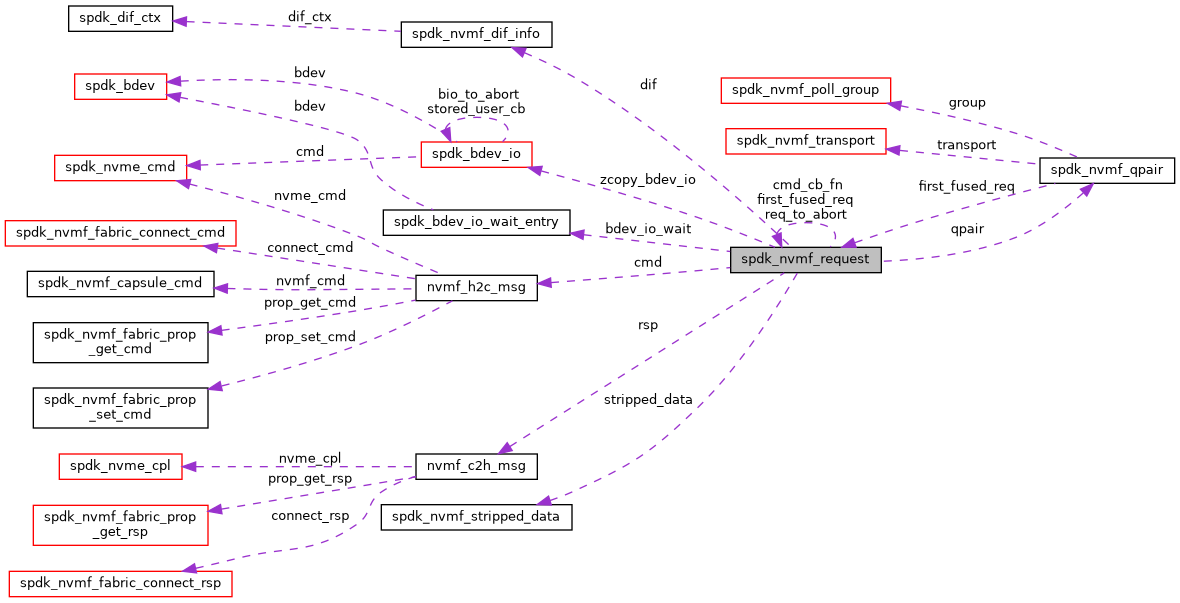
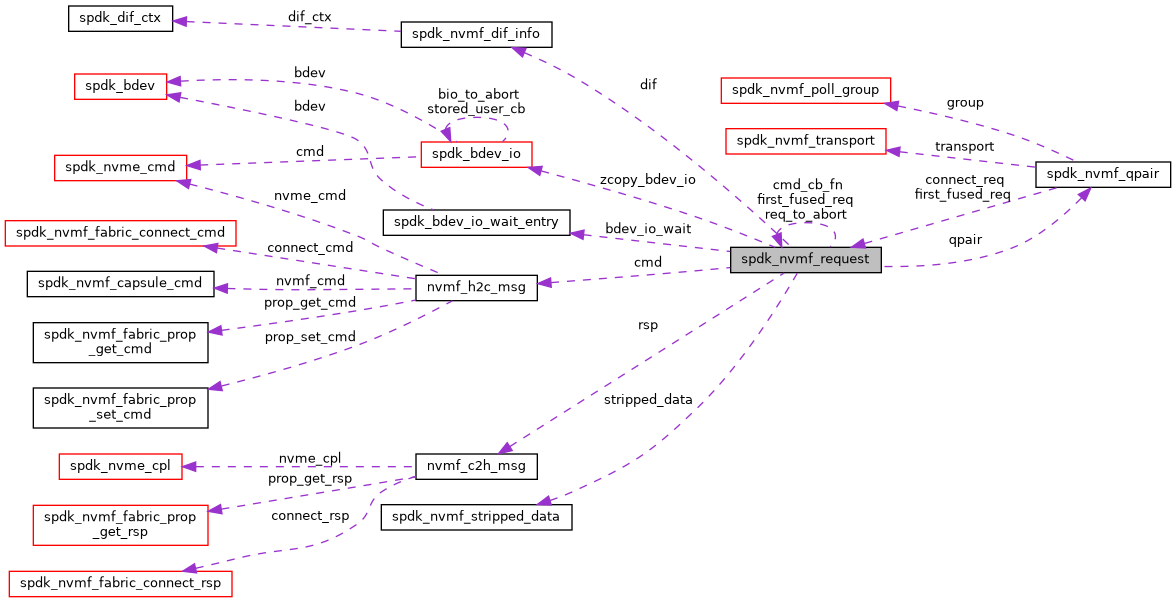
doc: update to b1a2319686137c6836ee1c46fd04e1e3f8d1206f

diff --git a/doc/structspdk__vfu__pci__device.html b/doc/structspdk__vfu__pci__device.html
@@ -107,35 +107,35 @@ Collaboration diagram for spdk_vfu_pci_device:</div>
 <table class="memberdecls">
 <tr class="heading"><td colspan="2"><h2 class="groupheader"><a name="pub-attribs"></a>
 Data Fields</h2></td></tr>
-<tr class="memitem:ab7ec4219ba5a864f58cfbbe0a1616713"><td class="memItemLeft" ><a id="ab7ec4219ba5a864f58cfbbe0a1616713"></a>
+<tr class="memitem:aec8547128d15d1e96dbed6ba46d443b8"><td class="memItemLeft" ><a id="aec8547128d15d1e96dbed6ba46d443b8"></a>
 struct {</td></tr>
-<tr class="memitem:a42dac528b0564b9d6f8dd3fc13e190f2"><td class="memItemLeft" >
+<tr class="memitem:ac424d0402952b18133fd5152e86f5659"><td class="memItemLeft" >
 &#160;&#160;&#160;uint16_t&#160;&#160;&#160;<b>vid</b></td></tr>
-<tr class="separator:a42dac528b0564b9d6f8dd3fc13e190f2"><td class="memSeparator" colspan="2">&#160;</td></tr>
-<tr class="memitem:ab3fc5f6b4b0e08ddb98513cd11486696"><td class="memItemLeft" >
+<tr class="separator:ac424d0402952b18133fd5152e86f5659"><td class="memSeparator" colspan="2">&#160;</td></tr>
+<tr class="memitem:ace23d753eac2bcdbda102b28789a4c9c"><td class="memItemLeft" >
 &#160;&#160;&#160;uint16_t&#160;&#160;&#160;<b>did</b></td></tr>
-<tr class="separator:ab3fc5f6b4b0e08ddb98513cd11486696"><td class="memSeparator" colspan="2">&#160;</td></tr>
-<tr class="memitem:a8f2aca905195ea39576bc12e7e367b1f"><td class="memItemLeft" >
+<tr class="separator:ace23d753eac2bcdbda102b28789a4c9c"><td class="memSeparator" colspan="2">&#160;</td></tr>
+<tr class="memitem:a9b32e27ffa06c5f7fdf810636ad7898f"><td class="memItemLeft" >
 &#160;&#160;&#160;uint16_t&#160;&#160;&#160;<b>ssvid</b></td></tr>
-<tr class="separator:a8f2aca905195ea39576bc12e7e367b1f"><td class="memSeparator" colspan="2">&#160;</td></tr>
-<tr class="memitem:a3faf4ec5fcf5b54010bcfdba1f681707"><td class="memItemLeft" >
+<tr class="separator:a9b32e27ffa06c5f7fdf810636ad7898f"><td class="memSeparator" colspan="2">&#160;</td></tr>
+<tr class="memitem:a1217dae03f0183760903008112461d3f"><td class="memItemLeft" >
 &#160;&#160;&#160;uint16_t&#160;&#160;&#160;<b>ssid</b></td></tr>
-<tr class="separator:a3faf4ec5fcf5b54010bcfdba1f681707"><td class="memSeparator" colspan="2">&#160;</td></tr>
-<tr class="memitem:ab7ec4219ba5a864f58cfbbe0a1616713"><td class="memItemLeft" valign="top">}&#160;</td><td class="memItemRight" valign="bottom"><b>id</b></td></tr>
-<tr class="separator:ab7ec4219ba5a864f58cfbbe0a1616713"><td class="memSeparator" colspan="2">&#160;</td></tr>
-<tr class="memitem:abe4cc3dd1f9836181fbb91e82e3c2cae"><td class="memItemLeft" ><a id="abe4cc3dd1f9836181fbb91e82e3c2cae"></a>
+<tr class="separator:a1217dae03f0183760903008112461d3f"><td class="memSeparator" colspan="2">&#160;</td></tr>
+<tr class="memitem:aec8547128d15d1e96dbed6ba46d443b8"><td class="memItemLeft" valign="top">}&#160;</td><td class="memItemRight" valign="bottom"><b>id</b></td></tr>
+<tr class="separator:aec8547128d15d1e96dbed6ba46d443b8"><td class="memSeparator" colspan="2">&#160;</td></tr>
+<tr class="memitem:a7dc90a89607dfda94163f45481f6d22d"><td class="memItemLeft" ><a id="a7dc90a89607dfda94163f45481f6d22d"></a>
 struct {</td></tr>
-<tr class="memitem:a31e3dce0cd1072f03c8577d834eeb45d"><td class="memItemLeft" >
+<tr class="memitem:ac0e6708304b7d061b03f9f01a05214cf"><td class="memItemLeft" >
 &#160;&#160;&#160;uint8_t&#160;&#160;&#160;<b>bcc</b></td></tr>
-<tr class="separator:a31e3dce0cd1072f03c8577d834eeb45d"><td class="memSeparator" colspan="2">&#160;</td></tr>
-<tr class="memitem:a8d27890f5a629d4a9ff91f38a79716f8"><td class="memItemLeft" >
+<tr class="separator:ac0e6708304b7d061b03f9f01a05214cf"><td class="memSeparator" colspan="2">&#160;</td></tr>
+<tr class="memitem:afa08c7b755d7feaa5e459a69644dbb33"><td class="memItemLeft" >
 &#160;&#160;&#160;uint8_t&#160;&#160;&#160;<b>scc</b></td></tr>
-<tr class="separator:a8d27890f5a629d4a9ff91f38a79716f8"><td class="memSeparator" colspan="2">&#160;</td></tr>
-<tr class="memitem:ad0571f75a51b63823bce4fc380849dff"><td class="memItemLeft" >
+<tr class="separator:afa08c7b755d7feaa5e459a69644dbb33"><td class="memSeparator" colspan="2">&#160;</td></tr>
+<tr class="memitem:add19b32bf22e71bab54d1b7ac85a3ded"><td class="memItemLeft" >
 &#160;&#160;&#160;uint8_t&#160;&#160;&#160;<b>pi</b></td></tr>
-<tr class="separator:ad0571f75a51b63823bce4fc380849dff"><td class="memSeparator" colspan="2">&#160;</td></tr>
-<tr class="memitem:abe4cc3dd1f9836181fbb91e82e3c2cae"><td class="memItemLeft" valign="top">}&#160;</td><td class="memItemRight" valign="bottom"><b>class</b></td></tr>
-<tr class="separator:abe4cc3dd1f9836181fbb91e82e3c2cae"><td class="memSeparator" colspan="2">&#160;</td></tr>
+<tr class="separator:add19b32bf22e71bab54d1b7ac85a3ded"><td class="memSeparator" colspan="2">&#160;</td></tr>
+<tr class="memitem:a7dc90a89607dfda94163f45481f6d22d"><td class="memItemLeft" valign="top">}&#160;</td><td class="memItemRight" valign="bottom"><b>class</b></td></tr>
+<tr class="separator:a7dc90a89607dfda94163f45481f6d22d"><td class="memSeparator" colspan="2">&#160;</td></tr>
 <tr class="memitem:a18b1ef2cc6cc91ef46e4671a01be8418"><td class="memItemLeft" align="right" valign="top"><a id="a18b1ef2cc6cc91ef46e4671a01be8418"></a>
 struct pmcap&#160;</td><td class="memItemRight" valign="bottom"><b>pmcap</b></td></tr>
 <tr class="separator:a18b1ef2cc6cc91ef46e4671a01be8418"><td class="memSeparator" colspan="2">&#160;</td></tr>

diff --git a/doc/navtreeindex29.js b/doc/navtreeindex29.js
@@ -1,5 +1,6 @@
 var NAVTREEINDEX29 =
 {
+"structspdk__scsi__pr__in__full__status__desc.html#a82e21e2823a46e5d72956d6ddce836ac":[14,0,364,0],
 "structspdk__scsi__pr__in__full__status__desc.html#a8b36db3a8ffa27c906f55e064961a6a6":[14,0,364,5],
 "structspdk__scsi__pr__in__full__status__desc.html#a8ce62fdeeb9492c9ef653c181ef7b59b":[14,0,364,6],
 "structspdk__scsi__pr__in__full__status__desc.html#ad7215f35a82a0b99769deed4193c7ff3":[14,0,364,2],
@@ -196,7 +197,7 @@ var NAVTREEINDEX29 =
 "structspdk__trace__parser__entry.html#a53973ef677f05f6d067c046dc790da78":[14,0,389,1],
 "structspdk__trace__parser__entry.html#a55b2e0aea7cca402a502ad4d043e7293":[14,0,389,7],
 "structspdk__trace__parser__entry.html#a7e7ee46ec4c44c52caebb5ede88395c8":[14,0,389,8],
-"structspdk__trace__parser__entry.html#a979ee7fb6da144ca3b9d2b52af894da4":[14,0,389,0],
+"structspdk__trace__parser__entry.html#a8edbac7d17ff4f1f3be02a7441019b76":[14,0,389,0],
 "structspdk__trace__parser__entry.html#abb11f8535fab9ee4f9fc4c2adcee5145":[14,0,389,3],
 "structspdk__trace__parser__entry.html#aebdc6a2a084c4771e6fb246c2d729c1f":[14,0,389,4],
 "structspdk__trace__parser__entry.html#aec660173b8f4a348dce6cbca336a7dfc":[14,0,389,2],
@@ -213,25 +214,25 @@ var NAVTREEINDEX29 =
 "structspdk__trace__tpoint.html":[14,0,392],
 "structspdk__trace__tpoint.html#a0f01e931e5212379d1720697cea4525f":[14,0,392,6],
 "structspdk__trace__tpoint.html#a317eccf6a1a97bcaa0fb21002fe174ce":[14,0,392,8],
+"structspdk__trace__tpoint.html#a57929a428b979dadf45883c35b436c4a":[14,0,392,7],
 "structspdk__trace__tpoint.html#a77fa5c1c40c5a3ff6bef9f7fee8b110c":[14,0,392,4],
-"structspdk__trace__tpoint.html#a900c849eb95c397443821f0b828b9343":[14,0,392,7],
 "structspdk__trace__tpoint.html#aaafcedaba03f4cbb2a5094d1349d6094":[14,0,392,0],
 "structspdk__trace__tpoint.html#ab076ca5845f90898c78f9a64adac7237":[14,0,392,5],
 "structspdk__trace__tpoint.html#ab0e8c489bff5101d247fbaa629a0aac1":[14,0,392,2],
 "structspdk__trace__tpoint.html#ab3b03bf8c8066211ba6c61e6d025974e":[14,0,392,1],
 "structspdk__trace__tpoint.html#ab7fc63503e3111eaa02cec6270279903":[14,0,392,3],
 "structspdk__trace__tpoint__opts.html":[14,0,393],
-"structspdk__trace__tpoint__opts.html#a01be575fe5656df650cf72c652043f98":[14,0,393,0],
 "structspdk__trace__tpoint__opts.html#a1f2120b3e8e9826df77215b818e1921c":[14,0,393,6],
 "structspdk__trace__tpoint__opts.html#a4d1141cb975c7db2462eb8da533715fd":[14,0,393,7],
 "structspdk__trace__tpoint__opts.html#a6cc2107ff77d8653071313fca0fed98c":[14,0,393,4],
 "structspdk__trace__tpoint__opts.html#a79d8cea7d4c0944b42491deb9b996d67":[14,0,393,1],
 "structspdk__trace__tpoint__opts.html#a8dfb550659aea1d6673a21982a612788":[14,0,393,5],
 "structspdk__trace__tpoint__opts.html#aa19ee81f6fb6435306408382a038dc37":[14,0,393,2],
+"structspdk__trace__tpoint__opts.html#abfbbdc0f69bbfe6f28738ee2a69732df":[14,0,393,0],
 "structspdk__trace__tpoint__opts.html#ac55948fa9da93d5edac6bc965205572d":[14,0,393,3],
 "structspdk__uuid.html":[14,0,394],
 "structspdk__uuid.html#a8a218370dc61ebfb25175b124febe10d":[14,0,394,0],
-"structspdk__uuid.html#afccadd3b8eb3a1d2577ccb8e50a8f36c":[14,0,394,1],
+"structspdk__uuid.html#ac1d5efb44e91c711765c6960fa44df48":[14,0,394,1],
 "structspdk__vfu__endpoint__ops.html":[14,0,395],
 "structspdk__vfu__endpoint__ops.html#a00f7d1fb286931725b14f5f410bbcd33":[14,0,395,8],
 "structspdk__vfu__endpoint__ops.html#a3d0a126f68ccaaaff332d355013450f7":[14,0,395,3],
@@ -248,6 +249,5 @@ var NAVTREEINDEX29 =
 "structspdk__vfu__pci__device.html#a17a27b028191166a11827c680e760ec3":[14,0,396,7],
 "structspdk__vfu__pci__device.html#a18b1ef2cc6cc91ef46e4671a01be8418":[14,0,396,10],
 "structspdk__vfu__pci__device.html#a1f0a54eba7648d8c6145c45689430f5c":[14,0,396,9],
-"structspdk__vfu__pci__device.html#a20ebb56d42efba8f13739ff8976aa8a3":[14,0,396,15],
-"structspdk__vfu__pci__device.html#a29b0a87d2156236093e1315b062f4806":[14,0,396,8]
+"structspdk__vfu__pci__device.html#a20ebb56d42efba8f13739ff8976aa8a3":[14,0,396,15]
 };

diff --git a/doc/structvfio__user__header.html b/doc/structvfio__user__header.html
@@ -103,22 +103,22 @@ uint16_t&#160;</td><td class="memItemRight" valign="bottom"><b>cmd</b></td></tr>
 <tr class="memitem:a4069787d02f5851e7c7652198505a102"><td class="memItemLeft" align="right" valign="top"><a id="a4069787d02f5851e7c7652198505a102"></a>
 uint32_t&#160;</td><td class="memItemRight" valign="bottom"><b>msg_size</b></td></tr>
 <tr class="separator:a4069787d02f5851e7c7652198505a102"><td class="memSeparator" colspan="2">&#160;</td></tr>
-<tr class="memitem:ad21b827dc55ba6ff42ca41b665a0e5bc"><td class="memItemLeft" ><a id="ad21b827dc55ba6ff42ca41b665a0e5bc"></a>
+<tr class="memitem:a9172193571584f47fa6ed9a46b764ce7"><td class="memItemLeft" ><a id="a9172193571584f47fa6ed9a46b764ce7"></a>
 struct {</td></tr>
-<tr class="memitem:ae40f0de108c588dc484d09209332c1e9"><td class="memItemLeft" >
+<tr class="memitem:a8d25a176c95fabbf22178be101c73e52"><td class="memItemLeft" >
 &#160;&#160;&#160;uint32_t&#160;&#160;&#160;<b>type</b>: 4</td></tr>
-<tr class="separator:ae40f0de108c588dc484d09209332c1e9"><td class="memSeparator" colspan="2">&#160;</td></tr>
-<tr class="memitem:a10617e16ea1a71ce6ee3602209d0a06a"><td class="memItemLeft" >
+<tr class="separator:a8d25a176c95fabbf22178be101c73e52"><td class="memSeparator" colspan="2">&#160;</td></tr>
+<tr class="memitem:a7a95964a3716942fa1e75a344496596d"><td class="memItemLeft" >
 &#160;&#160;&#160;uint32_t&#160;&#160;&#160;<b>no_reply</b>: 1</td></tr>
-<tr class="separator:a10617e16ea1a71ce6ee3602209d0a06a"><td class="memSeparator" colspan="2">&#160;</td></tr>
-<tr class="memitem:af6c737035d95d55345dfd516f7b0f0d6"><td class="memItemLeft" >
+<tr class="separator:a7a95964a3716942fa1e75a344496596d"><td class="memSeparator" colspan="2">&#160;</td></tr>
+<tr class="memitem:a6163893e84f7afe9587096aabcda1eaf"><td class="memItemLeft" >
 &#160;&#160;&#160;uint32_t&#160;&#160;&#160;<b>error</b>: 1</td></tr>
-<tr class="separator:af6c737035d95d55345dfd516f7b0f0d6"><td class="memSeparator" colspan="2">&#160;</td></tr>
-<tr class="memitem:a6d255f587ec6f720b31e4fc6aef5205c"><td class="memItemLeft" >
+<tr class="separator:a6163893e84f7afe9587096aabcda1eaf"><td class="memSeparator" colspan="2">&#160;</td></tr>
+<tr class="memitem:ace2c76597d8fd9de5ec8ab51ecdd2419"><td class="memItemLeft" >
 &#160;&#160;&#160;uint32_t&#160;&#160;&#160;<b>resvd</b>: 26</td></tr>
-<tr class="separator:a6d255f587ec6f720b31e4fc6aef5205c"><td class="memSeparator" colspan="2">&#160;</td></tr>
-<tr class="memitem:ad21b827dc55ba6ff42ca41b665a0e5bc"><td class="memItemLeft" valign="top">}&#160;</td><td class="memItemRight" valign="bottom"><b>flags</b></td></tr>
-<tr class="separator:ad21b827dc55ba6ff42ca41b665a0e5bc"><td class="memSeparator" colspan="2">&#160;</td></tr>
+<tr class="separator:ace2c76597d8fd9de5ec8ab51ecdd2419"><td class="memSeparator" colspan="2">&#160;</td></tr>
+<tr class="memitem:a9172193571584f47fa6ed9a46b764ce7"><td class="memItemLeft" valign="top">}&#160;</td><td class="memItemRight" valign="bottom"><b>flags</b></td></tr>
+<tr class="separator:a9172193571584f47fa6ed9a46b764ce7"><td class="memSeparator" colspan="2">&#160;</td></tr>
 <tr class="memitem:ac26f57c2a4710128eb10398b4ab71405"><td class="memItemLeft" align="right" valign="top"><a id="ac26f57c2a4710128eb10398b4ab71405"></a>
 uint32_t&#160;</td><td class="memItemRight" valign="bottom"><b>error_no</b></td></tr>
 <tr class="separator:ac26f57c2a4710128eb10398b4ab71405"><td class="memSeparator" colspan="2">&#160;</td></tr>

diff --git a/doc/structspdk__trace__parser__entry.html b/doc/structspdk__trace__parser__entry.html
@@ -129,20 +129,20 @@ uint64_t&#160;</td><td class="memItemRight" valign="bottom"><a class="el" href="
 uint8_t&#160;</td><td class="memItemRight" valign="bottom"><a class="el" href="structspdk__trace__parser__entry.html#a7e7ee46ec4c44c52caebb5ede88395c8">related_type</a></td></tr>
 <tr class="memdesc:a7e7ee46ec4c44c52caebb5ede88395c8"><td class="mdescLeft">&#160;</td><td class="mdescRight">Related object type. <br /></td></tr>
 <tr class="separator:a7e7ee46ec4c44c52caebb5ede88395c8"><td class="memSeparator" colspan="2">&#160;</td></tr>
-<tr class="memitem:a979ee7fb6da144ca3b9d2b52af894da4"><td class="memItemLeft" ><a id="a979ee7fb6da144ca3b9d2b52af894da4"></a>
+<tr class="memitem:a8edbac7d17ff4f1f3be02a7441019b76"><td class="memItemLeft" ><a id="a8edbac7d17ff4f1f3be02a7441019b76"></a>
 union {</td></tr>
-<tr class="memitem:a558f0cf0531588b9145b181ab7472147"><td class="memItemLeft" >
+<tr class="memitem:aef5e9a3f7e0fe65185a9e218d661bcf3"><td class="memItemLeft" >
 &#160;&#160;&#160;uint64_t&#160;&#160;&#160;<b>integer</b></td></tr>
-<tr class="separator:a558f0cf0531588b9145b181ab7472147"><td class="memSeparator" colspan="2">&#160;</td></tr>
-<tr class="memitem:a5151ecfbb7521e39297c75a3431f1f5b"><td class="memItemLeft" >
+<tr class="separator:aef5e9a3f7e0fe65185a9e218d661bcf3"><td class="memSeparator" colspan="2">&#160;</td></tr>
+<tr class="memitem:acf81a42cd30a75b8b2feabb253e36df4"><td class="memItemLeft" >
 &#160;&#160;&#160;void *&#160;&#160;&#160;<b>pointer</b></td></tr>
-<tr class="separator:a5151ecfbb7521e39297c75a3431f1f5b"><td class="memSeparator" colspan="2">&#160;</td></tr>
-<tr class="memitem:a0bdb976345f9f0d071befaf529c7cd33"><td class="memItemLeft" >
+<tr class="separator:acf81a42cd30a75b8b2feabb253e36df4"><td class="memSeparator" colspan="2">&#160;</td></tr>
+<tr class="memitem:a679642ca4f44d569bcd1dd00f98cc924"><td class="memItemLeft" >
 &#160;&#160;&#160;char&#160;&#160;&#160;<b>string</b> [UINT8_MAX+1]</td></tr>
-<tr class="separator:a0bdb976345f9f0d071befaf529c7cd33"><td class="memSeparator" colspan="2">&#160;</td></tr>
-<tr class="memitem:a979ee7fb6da144ca3b9d2b52af894da4"><td class="memItemLeft" valign="top">}&#160;</td><td class="memItemRight" valign="bottom"><a class="el" href="structspdk__trace__parser__entry.html#a979ee7fb6da144ca3b9d2b52af894da4">args</a> [SPDK_TRACE_MAX_ARGS_COUNT]</td></tr>
-<tr class="memdesc:a979ee7fb6da144ca3b9d2b52af894da4"><td class="mdescLeft">&#160;</td><td class="mdescRight">Tracepoint arguments. <br /></td></tr>
-<tr class="separator:a979ee7fb6da144ca3b9d2b52af894da4"><td class="memSeparator" colspan="2">&#160;</td></tr>
+<tr class="separator:a679642ca4f44d569bcd1dd00f98cc924"><td class="memSeparator" colspan="2">&#160;</td></tr>
+<tr class="memitem:a8edbac7d17ff4f1f3be02a7441019b76"><td class="memItemLeft" valign="top">}&#160;</td><td class="memItemRight" valign="bottom"><a class="el" href="structspdk__trace__parser__entry.html#a8edbac7d17ff4f1f3be02a7441019b76">args</a> [SPDK_TRACE_MAX_ARGS_COUNT]</td></tr>
+<tr class="memdesc:a8edbac7d17ff4f1f3be02a7441019b76"><td class="mdescLeft">&#160;</td><td class="mdescRight">Tracepoint arguments. <br /></td></tr>
+<tr class="separator:a8edbac7d17ff4f1f3be02a7441019b76"><td class="memSeparator" colspan="2">&#160;</td></tr>
 </table>
 <a name="details" id="details"></a><h2 class="groupheader">Detailed Description</h2>
 <div class="textblock"><p>Describes a parsed trace entry. </p>

diff --git a/doc/navtreeindex27.js b/doc/navtreeindex27.js
@@ -16,19 +16,20 @@ var NAVTREEINDEX27 =
 "structspdk__nvmf__poll__group__stat.html#af35cb7b40dc36493333df1698ca17eda":[14,0,310,4],
 "structspdk__nvmf__qpair.html":[14,0,311],
 "structspdk__nvmf__qpair.html#a088e32a2258aaba2781f42bdb63d74f3":[14,0,311,0],
-"structspdk__nvmf__qpair.html#a0e2e7f8b9bb90bf1d0b0ed9e197cd290":[14,0,311,9],
-"structspdk__nvmf__qpair.html#a2fd38a526e3d5d07cde1b52cf5fda6d8":[14,0,311,5],
+"structspdk__nvmf__qpair.html#a0e2e7f8b9bb90bf1d0b0ed9e197cd290":[14,0,311,10],
+"structspdk__nvmf__qpair.html#a2fd38a526e3d5d07cde1b52cf5fda6d8":[14,0,311,6],
 "structspdk__nvmf__qpair.html#a419c7cb5490055b0eeaca52aeb1baea7":[14,0,311,1],
-"structspdk__nvmf__qpair.html#a44e9be1f9f7b8607613f1caee777d9f9":[14,0,311,10],
-"structspdk__nvmf__qpair.html#a598e955b75f6ca4576fdad98c43e6487":[14,0,311,8],
-"structspdk__nvmf__qpair.html#a68b1d54cc3ea7e337043f4dabfa9b859":[14,0,311,11],
+"structspdk__nvmf__qpair.html#a44e9be1f9f7b8607613f1caee777d9f9":[14,0,311,11],
+"structspdk__nvmf__qpair.html#a4c646146a3b9f0dd882bf8fb933467d3":[14,0,311,3],
+"structspdk__nvmf__qpair.html#a598e955b75f6ca4576fdad98c43e6487":[14,0,311,9],
+"structspdk__nvmf__qpair.html#a68b1d54cc3ea7e337043f4dabfa9b859":[14,0,311,12],
 "structspdk__nvmf__qpair.html#a73fbbe9ed27d142ba43055dc6aa809e0":[14,0,311,2],
-"structspdk__nvmf__qpair.html#a993b86bef0d64d282753f924cdb6de02":[14,0,311,6],
-"structspdk__nvmf__qpair.html#abb43234094d4e8bf33c1868563e710dc":[14,0,311,4],
-"structspdk__nvmf__qpair.html#ad96a9ac0798e15ef97e0890d3aabd591":[14,0,311,12],
-"structspdk__nvmf__qpair.html#add3a2107b9b45be02b7319571960e5d4":[14,0,311,13],
-"structspdk__nvmf__qpair.html#adedc0164fd1e4a9245cc15752da0cfad":[14,0,311,3],
-"structspdk__nvmf__qpair.html#aecc6801664b3940edae8ee58e8438c33":[14,0,311,7],
+"structspdk__nvmf__qpair.html#a993b86bef0d64d282753f924cdb6de02":[14,0,311,7],
+"structspdk__nvmf__qpair.html#abb43234094d4e8bf33c1868563e710dc":[14,0,311,5],
+"structspdk__nvmf__qpair.html#ad96a9ac0798e15ef97e0890d3aabd591":[14,0,311,13],
+"structspdk__nvmf__qpair.html#add3a2107b9b45be02b7319571960e5d4":[14,0,311,14],
+"structspdk__nvmf__qpair.html#adedc0164fd1e4a9245cc15752da0cfad":[14,0,311,4],
+"structspdk__nvmf__qpair.html#aecc6801664b3940edae8ee58e8438c33":[14,0,311,8],
 "structspdk__nvmf__rdma__accept__private__data.html":[14,0,312],
 "structspdk__nvmf__rdma__accept__private__data.html#a04fc397faefc26fa6b0db3527416d7a1":[14,0,312,1],
 "structspdk__nvmf__rdma__accept__private__data.html#a08caf73e58a58daa28d5bc3597b448ca":[14,0,312,2],
@@ -248,6 +249,5 @@ var NAVTREEINDEX27 =
 "structspdk__opal__d0__datastore__feat.html#a295989789470dddfbc929ac553d6055c":[14,0,333,0],
 "structspdk__opal__d0__datastore__feat.html#ad328de8b9ec25dc195379425e6f3023d":[14,0,333,1],
 "structspdk__opal__d0__datastore__feat.html#ad3f683eddd119478844453f109ed73af":[14,0,333,3],
-"structspdk__opal__d0__datastore__feat.html#afb80efa53c7b4499bfd97ce5caeed9ae":[14,0,333,4],
-"structspdk__opal__d0__feat__hdr.html":[14,0,334]
+"structspdk__opal__d0__datastore__feat.html#afb80efa53c7b4499bfd97ce5caeed9ae":[14,0,333,4]
 };

diff --git a/doc/structspdk__trace__tpoint.html b/doc/structspdk__trace__tpoint.html
@@ -124,17 +124,17 @@ uint8_t&#160;</td><td class="memItemRight" valign="bottom"><b>num_args</b></td><
 <tr class="memitem:ab3b03bf8c8066211ba6c61e6d025974e"><td class="memItemLeft" align="right" valign="top"><a id="ab3b03bf8c8066211ba6c61e6d025974e"></a>
 struct <a class="el" href="structspdk__trace__argument.html">spdk_trace_argument</a>&#160;</td><td class="memItemRight" valign="bottom"><b>args</b> [SPDK_TRACE_MAX_ARGS_COUNT]</td></tr>
 <tr class="separator:ab3b03bf8c8066211ba6c61e6d025974e"><td class="memSeparator" colspan="2">&#160;</td></tr>
-<tr class="memitem:a900c849eb95c397443821f0b828b9343"><td class="memItemLeft" ><a id="a900c849eb95c397443821f0b828b9343"></a>
+<tr class="memitem:a57929a428b979dadf45883c35b436c4a"><td class="memItemLeft" ><a id="a57929a428b979dadf45883c35b436c4a"></a>
 struct {</td></tr>
-<tr class="memitem:aa92a3a423f731730d35c3d5ab9d3d790"><td class="memItemLeft" >
+<tr class="memitem:a735ff35875451b8e55e01919a5482148"><td class="memItemLeft" >
 &#160;&#160;&#160;uint8_t&#160;&#160;&#160;<b>object_type</b></td></tr>
-<tr class="separator:aa92a3a423f731730d35c3d5ab9d3d790"><td class="memSeparator" colspan="2">&#160;</td></tr>
-<tr class="memitem:a14515829e780f1f8d417504423d80fc6"><td class="memItemLeft" >
+<tr class="separator:a735ff35875451b8e55e01919a5482148"><td class="memSeparator" colspan="2">&#160;</td></tr>
+<tr class="memitem:a2e02cc7bb8b3a67cef2a1bbfb886a174"><td class="memItemLeft" >
 &#160;&#160;&#160;uint8_t&#160;&#160;&#160;<b>arg_index</b></td></tr>
-<tr class="separator:a14515829e780f1f8d417504423d80fc6"><td class="memSeparator" colspan="2">&#160;</td></tr>
-<tr class="memitem:a900c849eb95c397443821f0b828b9343"><td class="memItemLeft" valign="top">}&#160;</td><td class="memItemRight" valign="bottom"><a class="el" href="structspdk__trace__tpoint.html#a900c849eb95c397443821f0b828b9343">related_objects</a> [SPDK_TRACE_MAX_RELATIONS]</td></tr>
-<tr class="memdesc:a900c849eb95c397443821f0b828b9343"><td class="mdescLeft">&#160;</td><td class="mdescRight">Relations between tracepoint and trace object. <br /></td></tr>
-<tr class="separator:a900c849eb95c397443821f0b828b9343"><td class="memSeparator" colspan="2">&#160;</td></tr>
+<tr class="separator:a2e02cc7bb8b3a67cef2a1bbfb886a174"><td class="memSeparator" colspan="2">&#160;</td></tr>
+<tr class="memitem:a57929a428b979dadf45883c35b436c4a"><td class="memItemLeft" valign="top">}&#160;</td><td class="memItemRight" valign="bottom"><a class="el" href="structspdk__trace__tpoint.html#a57929a428b979dadf45883c35b436c4a">related_objects</a> [SPDK_TRACE_MAX_RELATIONS]</td></tr>
+<tr class="memdesc:a57929a428b979dadf45883c35b436c4a"><td class="mdescLeft">&#160;</td><td class="mdescRight">Relations between tracepoint and trace object. <br /></td></tr>
+<tr class="separator:a57929a428b979dadf45883c35b436c4a"><td class="memSeparator" colspan="2">&#160;</td></tr>
 </table>
 <hr/>The documentation for this struct was generated from the following file:<ul>
 <li><a class="el" href="trace_8h.html">trace.h</a></li>

diff --git a/doc/structspdk__trace__tpoint__opts.html b/doc/structspdk__trace__tpoint__opts.html
@@ -109,19 +109,19 @@ uint8_t&#160;</td><td class="memItemRight" valign="bottom"><b>object_type</b></t
 <tr class="memitem:aa19ee81f6fb6435306408382a038dc37"><td class="memItemLeft" align="right" valign="top"><a id="aa19ee81f6fb6435306408382a038dc37"></a>
 uint8_t&#160;</td><td class="memItemRight" valign="bottom"><b>new_object</b></td></tr>
 <tr class="separator:aa19ee81f6fb6435306408382a038dc37"><td class="memSeparator" colspan="2">&#160;</td></tr>
-<tr class="memitem:a01be575fe5656df650cf72c652043f98"><td class="memItemLeft" ><a id="a01be575fe5656df650cf72c652043f98"></a>
+<tr class="memitem:abfbbdc0f69bbfe6f28738ee2a69732df"><td class="memItemLeft" ><a id="abfbbdc0f69bbfe6f28738ee2a69732df"></a>
 struct {</td></tr>
-<tr class="memitem:a31ba574d0c5d07018f18d2e24ca3805d"><td class="memItemLeft" >
+<tr class="memitem:aab7f6cfe2d72bbfadb2cc5d340663c49"><td class="memItemLeft" >
 &#160;&#160;&#160;const char *&#160;&#160;&#160;<b>name</b></td></tr>
-<tr class="separator:a31ba574d0c5d07018f18d2e24ca3805d"><td class="memSeparator" colspan="2">&#160;</td></tr>
-<tr class="memitem:a4f7afc2be1818cd8f786c138f7d97274"><td class="memItemLeft" >
+<tr class="separator:aab7f6cfe2d72bbfadb2cc5d340663c49"><td class="memSeparator" colspan="2">&#160;</td></tr>
+<tr class="memitem:a7551010233a7b0945c6685f5fa12d7de"><td class="memItemLeft" >
 &#160;&#160;&#160;uint8_t&#160;&#160;&#160;<b>type</b></td></tr>
-<tr class="separator:a4f7afc2be1818cd8f786c138f7d97274"><td class="memSeparator" colspan="2">&#160;</td></tr>
-<tr class="memitem:acc22d96ec916d4a5f845731019d55b85"><td class="memItemLeft" >
+<tr class="separator:a7551010233a7b0945c6685f5fa12d7de"><td class="memSeparator" colspan="2">&#160;</td></tr>
+<tr class="memitem:a5ea35524f3bc48e5b863f36d2776f173"><td class="memItemLeft" >
 &#160;&#160;&#160;uint8_t&#160;&#160;&#160;<b>size</b></td></tr>
-<tr class="separator:acc22d96ec916d4a5f845731019d55b85"><td class="memSeparator" colspan="2">&#160;</td></tr>
-<tr class="memitem:a01be575fe5656df650cf72c652043f98"><td class="memItemLeft" valign="top">}&#160;</td><td class="memItemRight" valign="bottom"><b>args</b> [SPDK_TRACE_MAX_ARGS_COUNT]</td></tr>
-<tr class="separator:a01be575fe5656df650cf72c652043f98"><td class="memSeparator" colspan="2">&#160;</td></tr>
+<tr class="separator:a5ea35524f3bc48e5b863f36d2776f173"><td class="memSeparator" colspan="2">&#160;</td></tr>
+<tr class="memitem:abfbbdc0f69bbfe6f28738ee2a69732df"><td class="memItemLeft" valign="top">}&#160;</td><td class="memItemRight" valign="bottom"><b>args</b> [SPDK_TRACE_MAX_ARGS_COUNT]</td></tr>
+<tr class="separator:abfbbdc0f69bbfe6f28738ee2a69732df"><td class="memSeparator" colspan="2">&#160;</td></tr>
 </table>
 <hr/>The documentation for this struct was generated from the following file:<ul>
 <li><a class="el" href="trace_8h.html">trace.h</a></li>

diff --git a/doc/navtreeindex30.js b/doc/navtreeindex30.js
@@ -1,16 +1,17 @@
 var NAVTREEINDEX30 =
 {
+"structspdk__vfu__pci__device.html#a29b0a87d2156236093e1315b062f4806":[14,0,396,8],
 "structspdk__vfu__pci__device.html#a302e9ae2097cbedae3bd7f3295a84298":[14,0,396,5],
 "structspdk__vfu__pci__device.html#a445f19834c299af971f8b3ad72592994":[14,0,396,4],
 "structspdk__vfu__pci__device.html#a5585f94a97ad11b413ac17e986a49c17":[14,0,396,2],
 "structspdk__vfu__pci__device.html#a5b4589d4cc362b904aeffe3c586b300a":[14,0,396,14],
+"structspdk__vfu__pci__device.html#a7dc90a89607dfda94163f45481f6d22d":[14,0,396,1],
 "structspdk__vfu__pci__device.html#aa7f9711fba2103c4090550a8eea0a034":[14,0,396,0],
 "structspdk__vfu__pci__device.html#aade39aac3963942cd7ca96012a6afae4":[14,0,396,6],
 "structspdk__vfu__pci__device.html#aae5a307266663de4c4c040747e74a1c9":[14,0,396,11],
-"structspdk__vfu__pci__device.html#ab7ec4219ba5a864f58cfbbe0a1616713":[14,0,396,3],
 "structspdk__vfu__pci__device.html#ab9607f167444380a9a2062417dc88a60":[14,0,396,12],
-"structspdk__vfu__pci__device.html#abe4cc3dd1f9836181fbb91e82e3c2cae":[14,0,396,1],
 "structspdk__vfu__pci__device.html#ad01c800b0af1c5a94ab9408a4c2d80ad":[14,0,396,16],
+"structspdk__vfu__pci__device.html#aec8547128d15d1e96dbed6ba46d443b8":[14,0,396,3],
 "structspdk__vfu__pci__device.html#af45c0a41086c86f64be36d093b40e678":[14,0,396,13],
 "structspdk__vfu__pci__region.html":[14,0,397],
 "structspdk__vfu__pci__region.html#a07001584256cfe729af064978e793262":[14,0,397,4],
@@ -58,10 +59,10 @@ var NAVTREEINDEX30 =
 "structvfio__user__header.html#a1072eea3401a2d0bbda4fc0d8bcdcb2d":[14,0,405,7],
 "structvfio__user__header.html#a192a548b281b126819c771b7a5c85766":[14,0,405,0],
 "structvfio__user__header.html#a4069787d02f5851e7c7652198505a102":[14,0,405,5],
+"structvfio__user__header.html#a9172193571584f47fa6ed9a46b764ce7":[14,0,405,3],
 "structvfio__user__header.html#a929c2ba18ce9462b9bf960939332a2df":[14,0,405,1],
 "structvfio__user__header.html#ac26f57c2a4710128eb10398b4ab71405":[14,0,405,2],
 "structvfio__user__header.html#acaaa5241337cb834839b75e01e27f294":[14,0,405,8],
-"structvfio__user__header.html#ad21b827dc55ba6ff42ca41b665a0e5bc":[14,0,405,3],
 "structvfio__user__irq__info.html":[14,0,406],
 "structvfio__user__irq__info.html#ade42fc56773d521b17dcc9ecdd2638a7":[14,0,406,0],
 "structvfio__user__region__access.html":[14,0,407],
@@ -248,6 +249,5 @@ var NAVTREEINDEX30 =
 "ublk.html":[3,14],
 "ublk.html#ublk_impl":[3,14,3],
 "ublk.html#ublk_internal":[3,14,2],
-"ublk.html#ublk_intro":[3,14,1],
-"ublk.html#ublk_op":[3,14,4]
+"ublk.html#ublk_intro":[3,14,1]
 };

diff --git a/doc/structspdk__nvmf__qpair.html b/doc/structspdk__nvmf__qpair.html
@@ -157,9 +157,16 @@ bool&#160;</td><td class="memItemRight" valign="bottom"><b>connect_received</b><
 <tr class="memitem:abb43234094d4e8bf33c1868563e710dc"><td class="memItemLeft" align="right" valign="top"><a id="abb43234094d4e8bf33c1868563e710dc"></a>
 bool&#160;</td><td class="memItemRight" valign="bottom"><b>disconnect_started</b></td></tr>
 <tr class="separator:abb43234094d4e8bf33c1868563e710dc"><td class="memSeparator" colspan="2">&#160;</td></tr>
-<tr class="memitem:a2fd38a526e3d5d07cde1b52cf5fda6d8"><td class="memItemLeft" align="right" valign="top"><a id="a2fd38a526e3d5d07cde1b52cf5fda6d8"></a>
-struct <a class="el" href="structspdk__nvmf__request.html">spdk_nvmf_request</a> *&#160;</td><td class="memItemRight" valign="bottom"><b>first_fused_req</b></td></tr>
-<tr class="separator:a2fd38a526e3d5d07cde1b52cf5fda6d8"><td class="memSeparator" colspan="2">&#160;</td></tr>
+<tr class="memitem:a37614c0b537953504c351aa61d9b8ca1"><td class="memItemLeft" ><a id="a37614c0b537953504c351aa61d9b8ca1"></a>
+union {</td></tr>
+<tr class="memitem:a5642f6932e216f7c1cfbd47951d33f20"><td class="memItemLeft" >
+&#160;&#160;&#160;struct <a class="el" href="structspdk__nvmf__request.html">spdk_nvmf_request</a> *&#160;&#160;&#160;<b>first_fused_req</b></td></tr>
+<tr class="separator:a5642f6932e216f7c1cfbd47951d33f20"><td class="memSeparator" colspan="2">&#160;</td></tr>
+<tr class="memitem:a719d45c14c13fe6c8341ef662cc4e7df"><td class="memItemLeft" >
+&#160;&#160;&#160;struct <a class="el" href="structspdk__nvmf__request.html">spdk_nvmf_request</a> *&#160;&#160;&#160;<b>connect_req</b></td></tr>
+<tr class="separator:a719d45c14c13fe6c8341ef662cc4e7df"><td class="memSeparator" colspan="2">&#160;</td></tr>
+<tr class="memitem:a37614c0b537953504c351aa61d9b8ca1"><td class="memItemLeft" valign="top">};&#160;</td><td class="memItemRight" valign="bottom"></td></tr>
+<tr class="separator:a37614c0b537953504c351aa61d9b8ca1"><td class="memSeparator" colspan="2">&#160;</td></tr>
 </table>
 <hr/>The documentation for this struct was generated from the following file:<ul>
 <li><a class="el" href="nvmf__transport_8h.html">nvmf_transport.h</a></li>

diff --git a/doc/structspdk__uuid.html b/doc/structspdk__uuid.html
@@ -94,13 +94,13 @@ $(document).ready(function(){initNavTree('structspdk__uuid.html',''); initResiza
 <table class="memberdecls">
 <tr class="heading"><td colspan="2"><h2 class="groupheader"><a name="pub-attribs"></a>
 Data Fields</h2></td></tr>
-<tr class="memitem:afccadd3b8eb3a1d2577ccb8e50a8f36c"><td class="memItemLeft" ><a id="afccadd3b8eb3a1d2577ccb8e50a8f36c"></a>
+<tr class="memitem:ac1d5efb44e91c711765c6960fa44df48"><td class="memItemLeft" ><a id="ac1d5efb44e91c711765c6960fa44df48"></a>
 union {</td></tr>
-<tr class="memitem:a665926eeeefdd6433da1d8c7abc618b3"><td class="memItemLeft" >
+<tr class="memitem:a6ef17166a588df73b1ff03b3d4ec19b4"><td class="memItemLeft" >
 &#160;&#160;&#160;uint8_t&#160;&#160;&#160;<b>raw</b> [16]</td></tr>
-<tr class="separator:a665926eeeefdd6433da1d8c7abc618b3"><td class="memSeparator" colspan="2">&#160;</td></tr>
-<tr class="memitem:afccadd3b8eb3a1d2577ccb8e50a8f36c"><td class="memItemLeft" valign="top">}&#160;</td><td class="memItemRight" valign="bottom"><b>u</b></td></tr>
-<tr class="separator:afccadd3b8eb3a1d2577ccb8e50a8f36c"><td class="memSeparator" colspan="2">&#160;</td></tr>
+<tr class="separator:a6ef17166a588df73b1ff03b3d4ec19b4"><td class="memSeparator" colspan="2">&#160;</td></tr>
+<tr class="memitem:ac1d5efb44e91c711765c6960fa44df48"><td class="memItemLeft" valign="top">}&#160;</td><td class="memItemRight" valign="bottom"><b>u</b></td></tr>
+<tr class="separator:ac1d5efb44e91c711765c6960fa44df48"><td class="memSeparator" colspan="2">&#160;</td></tr>
 </table>
 <hr/>The documentation for this struct was generated from the following file:<ul>
 <li><a class="el" href="uuid_8h.html">uuid.h</a></li>

diff --git a/doc/scsi__spec_8h.html b/doc/scsi__spec_8h.html
@@ -557,7 +557,7 @@ Enumerations</h2></td></tr>
 , <b>SPDK_SPC_PERIPHERAL_QUALIFIER_NOT_CAPABLE</b> = 3
  }</td></tr>
 <tr class="separator:a97b1cf77713d9482f66aa21cc7f2304c"><td class="memSeparator" colspan="2">&#160;</td></tr>
-<tr class="memitem:a2ae95ea8e60178fe99580d5142f0ec7e"><td class="memItemLeft" align="right" valign="top"><a id="a2ae95ea8e60178fe99580d5142f0ec7e"></a>enum &#160;</td><td class="memItemRight" valign="bottom">{ <br />
+<tr class="memitem:a7b1472d57861c1c16e0394cd0f614182"><td class="memItemLeft" align="right" valign="top"><a id="a7b1472d57861c1c16e0394cd0f614182"></a>enum &#160;</td><td class="memItemRight" valign="bottom">{ <br />
 &#160;&#160;<b>SPDK_SPC_PERIPHERAL_DEVICE_TYPE_DISK</b> = 0x00
 , <b>SPDK_SPC_PERIPHERAL_DEVICE_TYPE_TAPE</b> = 0x01
 , <b>SPDK_SPC_PERIPHERAL_DEVICE_TYPE_DVD</b> = 0x05
@@ -601,7 +601,7 @@ Enumerations</h2></td></tr>
 &#160;&#160;<b>SPDK_SPC_VPD_IDENTIFIER_TYPE_SCSI_NAME</b> = 0x08
 <br />
  }</td></tr>
-<tr class="separator:a2ae95ea8e60178fe99580d5142f0ec7e"><td class="memSeparator" colspan="2">&#160;</td></tr>
+<tr class="separator:a7b1472d57861c1c16e0394cd0f614182"><td class="memSeparator" colspan="2">&#160;</td></tr>
 <tr class="memitem:ac2629b3541b10d7a4d2378b1b8f4a489"><td class="memItemLeft" align="right" valign="top"><a id="ac2629b3541b10d7a4d2378b1b8f4a489"></a>enum &#160;</td><td class="memItemRight" valign="bottom"><b>spdk_scsi_pr_in_action_code</b> { <b>SPDK_SCSI_PR_IN_READ_KEYS</b> = 0x00
 , <b>SPDK_SCSI_PR_IN_READ_RESERVATION</b> = 0x01
 , <b>SPDK_SCSI_PR_IN_REPORT_CAPABILITIES</b> = 0x02

diff --git a/doc/index.html b/doc/index.html
@@ -178,6 +178,7 @@ $(document).ready(function(){initNavTree('index.html',''); initResizable(); });
 <li><a href="https://ci.spdk.io/download/performance-reports/SPDK_nvme_bdev_perf_report_2301.pdf">SPDK 23.01 NVMe Bdev Performance Report</a></li>
 <li><a href="https://ci.spdk.io/download/performance-reports/SPDK_vhost_perf_report_2301.pdf">SPDK 23.01 Vhost Performance Report</a></li>
 <li><a href="https://ci.spdk.io/download/performance-reports/SPDK_tcp_mlx_perf_report_2301.pdf">SPDK 23.01 NVMe-oF TCP Performance Report (Mellanox ConnectX-5)</a></li>
+<li><a href="https://ci.spdk.io/download/performance-reports/SPDK_tcp_cvl_perf_report_2301.pdf">SPDK 23.01 NVMe-oF TCP Performance Report (Intel E810-CQDA2)</a></li>
 <li><a href="https://ci.spdk.io/download/performance-reports/SPDK_rdma_mlx_perf_report_2301.pdf">SPDK 23.01 NVMe-oF RDMA Performance Report (Mellanox ConnectX-5)</a></li>
 <li><a href="https://ci.spdk.io/download/performance-reports/SPDK_rdma_cvl_iwarp_perf_report_2301.pdf">SPDK 23.01 NVMe-oF RDMA Performance Report (Intel E810-CQDA2 iWARP)</a></li>
 <li><a href="https://ci.spdk.io/download/performance-reports/SPDK_rdma_cvl_roce_perf_report_2301.pdf">SPDK 23.01 NVMe-oF RDMA Performance Report (Intel E810-CQDA2 RoCEv2)</a></li>
